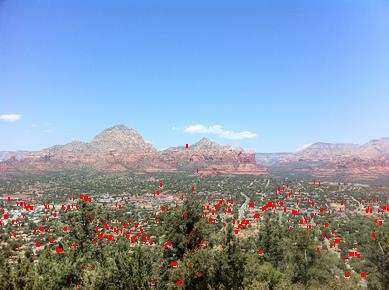
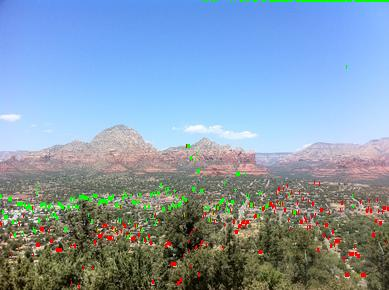
Part2

diff --git a/part2/mountain.py b/part2/mountain.py
@@ -8,7 +8,64 @@ from PIL import Image
 from numpy import *
 from scipy.ndimage import filters
 from scipy.misc import imsave
+from random import randint
 import sys
+
+
+class mountainRidgeFinding:
+
+	def __init__(self, edge_strength):
+		self.edge_strength = edge_strength
+
+	def calculateRandomGradient(self):
+		firstRandom = randint(0, edge_strength.shape[1]-1)
+		
+		maxGradient = []
+		sample = []
+		
+		for i in range(0 , len(edge_strength)):
+			maxGradient.append(edge_strength[i][firstRandom])
+		sample.append(maxGradient.index(max(maxGradient)))
+		#print("here",sample)
+		return(firstRandom, sample[0])
+
+	def calculateSample(self, xCoord, yCoord):
+		#print(xCoord, yCoord)
+		sampleList = []
+		for i in range(0, xCoord):
+			newList = []
+			for j in range(0, yCoord):
+				jFloat = float(j)
+				yCoordFloat = float(yCoord)
+				if(j == 0):
+					newList.append(edge_strength[j][i] * (0.001))
+				else:
+					newList.append(edge_strength[j][i]*(jFloat/yCoordFloat))
+			sampleList.append(newList.index(max(newList)))
+		#print("first", sampleList)
+		for i in range(xCoord, edge_strength.shape[1]):
+			newList = []
+			for j in range(yCoord, edge_strength.shape[0]):
+				jFloat = float(j)
+				yFloat = float(edge_strength.shape[0])
+				if(j == yCoord):
+					prob = 0.99
+					newList.append(edge_strength[j][i]* prob)
+				else:
+					newList.append(edge_strength[j][i]*((yFloat - yCoord)/ yFloat))
+			sampleList.append(newList.index(max(newList)))
+		return sampleList
+		
+
+	def mainClass(self):
+		#coordTuple = self.calculateRandomGradient()
+		#sampleList = self.calculateSample(coordTuple[0], coordTuple[1])
+		samples = []
+		for i in range(0, 500):
+			coordTuple = self.calculateRandomGradient()
+			samples.append(self.calculateSample(coordTuple[0], coordTuple[1]))
+		#print(samples)
+		return samples
 
 # calculate "Edge strength map" of an image
 #
@@ -49,13 +106,71 @@ imsave('edges.jpg', edge_strength)
 
 ridge = []
 
+print("length1",len(edge_strength[0]))
+print("length",len(edge_strength))
+print("shape", edge_strength.shape)
+
 for i in range(0, len(edge_strength[0])):
 	newList = []
 	for j in range(0, len(edge_strength)):
 		newList.append(edge_strength[j][i])
 	ridge.append(newList.index(max(newList)))
+'''
+newList2 = []
+for i in range(0, 1):
+	newList = []
+	for j in range(0, len(edge_strength)):
+		newList.append(edge_strength[j][i])
+	newList2.append(newList.index(max(newList)))
+	#ridge.append(newList.index(max(newList)))
 
-print(ridge)
+firstPixel = newList2[0]
+print(firstPixel)
+ridge.append(firstPixel)
+for i in range(1, len(edge_strength[0])):
+	newList = []
+	for j in range(firstPixel - 125, firstPixel + 125):
+		#print(j)
+		newList.append(edge_strength[j][i])
+	ridge.append(newList.index(max(newList)) + firstPixel-125) 
+	
+
+#print(newList2)
+#print(ridge)
+
+
+#print(edge_strength.shape[1])
+
+firstRandom = randint(0,500)
+
+maxGradient = []
+sampleList = []
+
+for i in range(0, len(edge_strength)):
+	maxGradient.append(edge_strength[i][firstRandom])
+sampleList.append(maxGradient.index(max(maxGradient)))
+
+#print(firstRandom)
+#print(sampleList)'''
+
+
+mountain = mountainRidgeFinding(edge_strength)
+sampleList = mountain.mainClass()
+#print("sample",len(sampleList[0]))
+
+newRidge2 = []
+for i in range(0, len(sampleList[0])):
+	newDict = {}
+	for j in range(0, len(sampleList)):
+		if(newDict.get(sampleList[j][i]) != None):
+			value = newDict[sampleList[j][i]]
+			newDict[sampleList[j][i]] = value + 1
+		else:
+			newDict[sampleList[j][i]] = 1
+	#print(newDict)
+	newRidge2.append(max(newDict, key=(lambda key: newDict[key])))
+#print(newRidge2)
 
 # output answer
 imsave(output_filename, draw_edge(input_image, ridge, (255, 0, 0), 5))
+imsave(output_filename, draw_edge(input_image, newRidge2, (0, 255, 0), 5))
